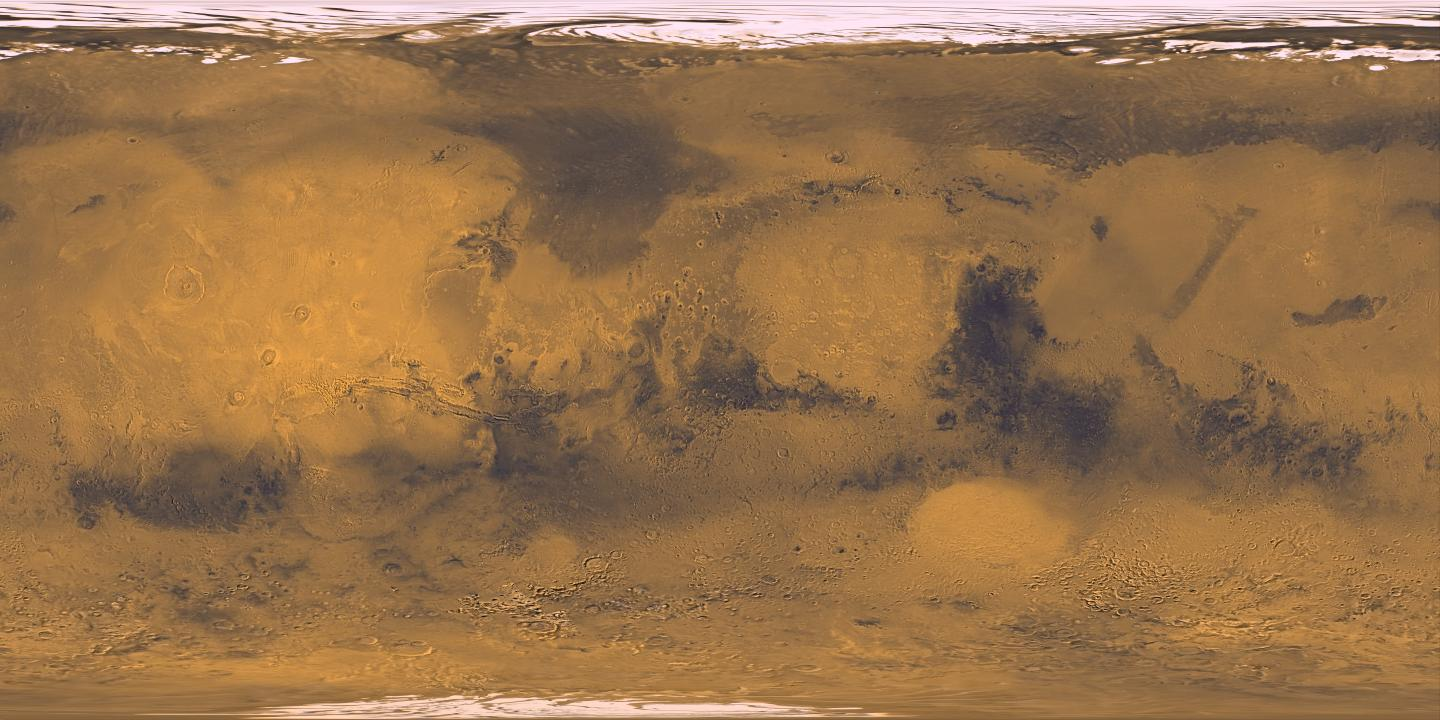
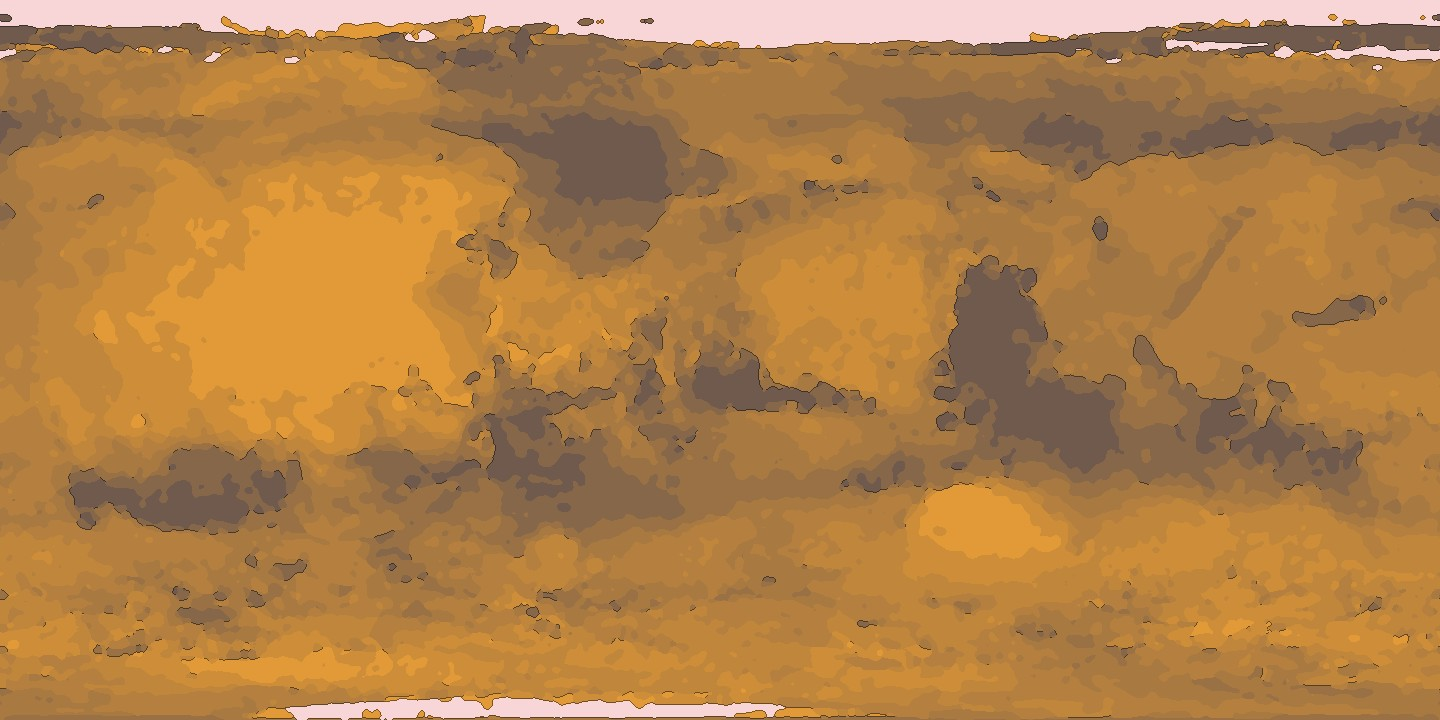
feat(planets): cartoon-style Earth, Moon, Mars and Venus maps
The four NASA maps are replaced by their cartoon-style versions made with scripts/toon-planets.mjs: same coastlines, deserts, ice caps, maria, craters and cloud bands, drawn as flat colours with ink outlines. The credits explain the derivation; the originals stay in the git history. Total size goes from 640 kB to 572 kB.

diff --git a/public/tex/CREDITS.it.md b/public/tex/CREDITS.it.md
@@ -14,3 +14,5 @@ Le attribuzioni conservano le fonti dichiarate nel documento originale. Il mater
 | `venus.jpg` | Venere | JPL Solar System Simulator, mappe texture (`ven0mss2.jpg`, maps.jpl.nasa.gov) | JPL/Caltech (D. Seal), immagine in luce visibile Mariner 10 | 1440×720 |
 
 Data di download riportata dal documento originale: 14 novembre 2026.
+
+**Stile cartone.** I file di questa cartella sono versioni in stile cartone delle mappe qui sopra, ottenute con `scripts/toon-planets.mjs` (filtro di Kuwahara, pochi colori presi da ogni mappa, contorno sottile dove il colore cambia molto). Niente è inventato: coste, crateri, calotte e bande di nubi vengono dalle mappe originali, che restano nella cronologia di git.

diff --git a/public/tex/CREDITS.md b/public/tex/CREDITS.md
@@ -15,3 +15,5 @@ NASA material is not protected by copyright unless noted (NASA media usage guide
 | `venus.jpg` | Venus | JPL Solar System Simulator texture maps (`ven0mss2.jpg`, maps.jpl.nasa.gov) | JPL/Caltech (D. Seal), from a Mariner 10 visible-light image | 1440×720 |
 
 Downloaded on 2026-11-14.
+
+**Cartoon style.** The files in this folder are cartoon-style derivatives of the maps above, made with `scripts/toon-planets.mjs` (Kuwahara filter, a small colour palette taken from each map, thin ink outlines on strong colour changes). Nothing is invented: coastlines, craters, ice caps and cloud bands come from the original maps, which are kept in the git history.
